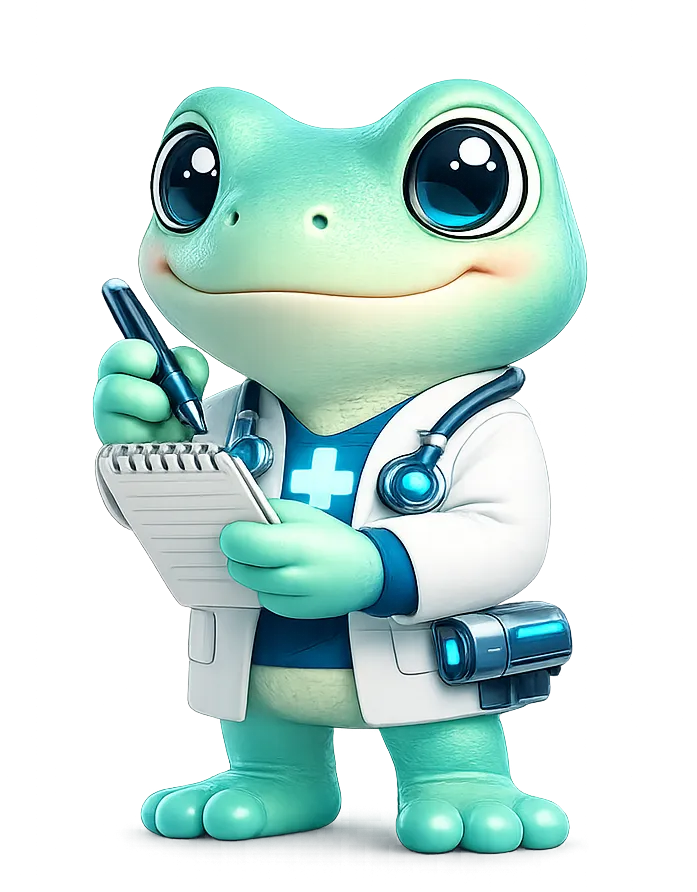
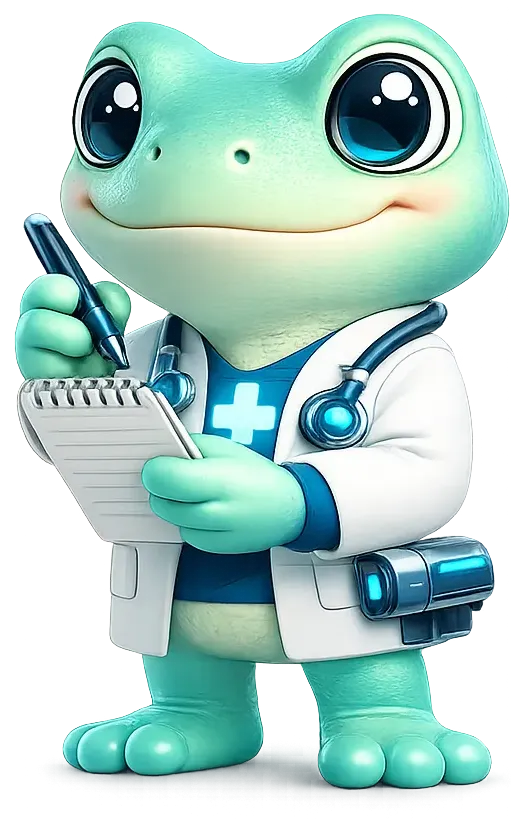
chore(landing): Hero 이미지(hero_1.webp) 교체 + width/height 정합
- 새 이미지 524x820 (이전 697x892)
- <img width/height> attr 도 524/820 으로 갱신해 CLS 없이 정확한
  비율로 렌더되도록 맞춤

diff --git a/Landing/components/HeroSection.tsx b/Landing/components/HeroSection.tsx
@@ -226,8 +226,8 @@ export default function HeroSection() {
             <img
               src="/hero_1.webp"
               alt="ASOG 웹 클리닉 — 홈페이지 진단·제작 상담"
-              width={697}
-              height={892}
+              width={524}
+              height={820}
               loading="eager"
               fetchPriority="high"
               className="block w-full h-auto select-none"